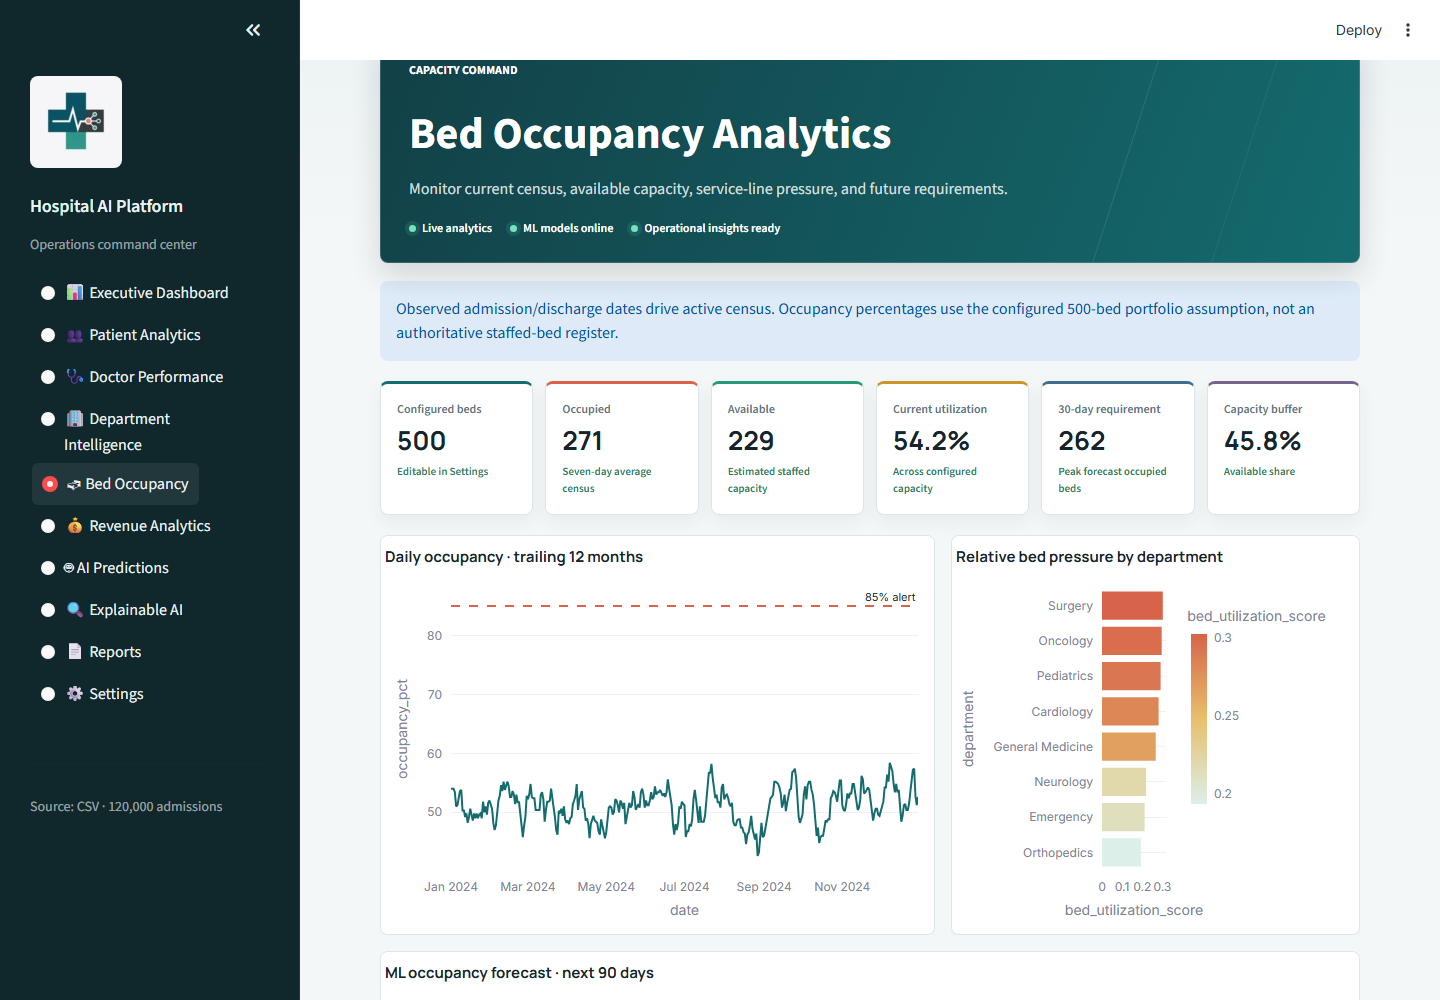
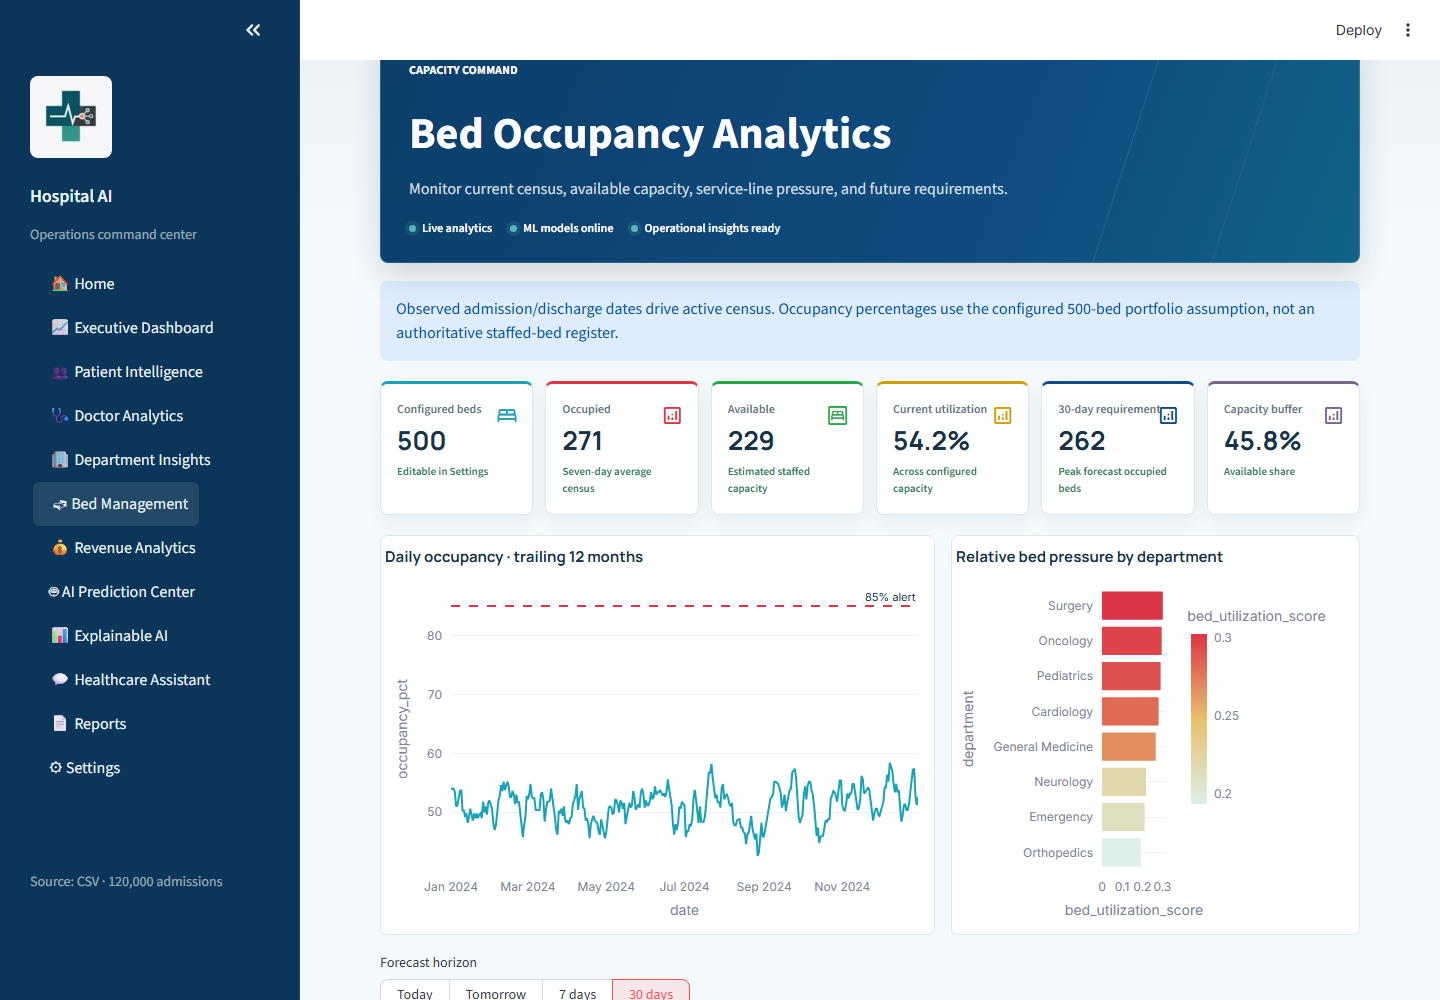
docs: update project README and include additional platform UI screenshots

diff --git a/README.md b/README.md
@@ -1,36 +1,32 @@
-# Hospital Operations Intelligence Platform
+# 🏥 Hospital Operations Intelligence Platform
 
-> End-to-end healthcare analytics for patient flow, readmissions, bed demand, claims performance, and executive decision support.
-
-**AI-Powered Healthcare Analytics and Decision Support System**
+> AI-powered healthcare analytics and decision support for patient flow, readmissions, occupied-bed demand, claims, and executive operations.
 
 [![Python](https://img.shields.io/badge/Python-3.14-3776AB?logo=python&logoColor=white)](https://www.python.org/)
 [![MySQL](https://img.shields.io/badge/MySQL-8.0-4479A1?logo=mysql&logoColor=white)](https://www.mysql.com/)
-[![Power BI](https://img.shields.io/badge/Power%20BI-Ready-F2C811?logo=powerbi&logoColor=black)](https://powerbi.microsoft.com/)
-[![Streamlit](https://img.shields.io/badge/Streamlit-App-FF4B4B?logo=streamlit&logoColor=white)](https://streamlit.io/)
-[![Tests](https://img.shields.io/badge/Tests-8%20Passing-269A78)](#quality-and-governance)
-[![Contracts](https://img.shields.io/badge/Contracts-28%20Passing-146C6E)](#quality-and-governance)
+[![Streamlit](https://img.shields.io/badge/Streamlit-Live_App-FF4B4B?logo=streamlit&logoColor=white)](https://hospital-operations-intelligence-platform-hvnncsycljark8qxv7b8.streamlit.app/)
+[![Tests](https://img.shields.io/badge/Tests-9_Passing-28A745)](#-quality-and-governance)
+[![License](https://img.shields.io/badge/License-MIT-0F4C81)](LICENSE)
 
-## Overview
+## 🚀 Live Demo
 
-This project transforms disconnected admissions and claims data into a governed hospital intelligence platform covering validation, ETL, MySQL modeling, advanced SQL, machine learning, SHAP explainability, executive reporting, and a ten-page Streamlit application.
+[![Launch Hospital Intelligence Platform](https://img.shields.io/badge/Launch_Hospital_Intelligence_Platform-Open_Live_Dashboard-0F4C81?style=for-the-badge&logo=streamlit&logoColor=white)](https://hospital-operations-intelligence-platform-hvnncsycljark8qxv7b8.streamlit.app/)
 
-### At a Glance
+[View source code](https://github.com/suhani-chauhan56/Hospital-Operations-Intelligence-Platform) · [Download executive report](reports/executive_report.pdf)
 
-| Admissions | Patients | Claims | SQL analyses | Notebooks | Quality checks |
+## 📌 Business Problem
+
+Hospital leaders often work with disconnected admissions, billing, claims, and operational data. This makes it difficult to identify readmission burden, capacity constraints, revenue leakage, and high-risk patient cohorts.
+
+This project converts fragmented data into a governed platform combining **ETL, MySQL, advanced SQL, machine learning, SHAP, executive reporting, and interactive dashboards**.
+
+## 🎯 At a Glance
+
+| Admissions | Unique patients | Claims | SQL analyses | Notebooks | Quality checks |
 |---:|---:|---:|---:|---:|---:|
-| **120,000** | **64,873** | **70,000** | **60** | **8** | **28 contracts + 8 tests** |
+| **120,000** | **64,873** | **70,000** | **60** | **8** | **28 contracts + 9 tests** |
 
-## Business Problem
-
-Hospital leaders need reliable answers across fragmented operational systems:
-
-- Which wards have the highest readmission and LOS burden?
-- How much billed value is collected, and where is revenue leaking?
-- What occupied-bed demand should operations prepare for?
-- Which results are observed, derived, simulated, or assumption-based?
-
-## Architecture
+## 🧱 End-to-End Architecture
 
 ```mermaid
 flowchart LR
@@ -45,193 +41,168 @@ flowchart LR
     H --> I[Executive PDF]
 ```
 
-### Data Reliability
+## 💡 Verified Business Insights
 
-Every analytical field is classified so decision-makers can distinguish evidence from demonstration data.
-
-| Classification | Intended use |
+| Finding | Management action |
 |---|---|
-| Observed | Descriptive analysis and executive KPIs |
-| Derived | Reproducible segmentation and feature engineering |
-| Simulated | Workflow demonstration only |
-| Surrogate | Scenario analysis where source keys are unavailable |
-| Assumption | Sensitivity analysis pending operational configuration |
+| ICU readmission is **23.8%**, versus **11.8%** hospital-wide. | Strengthen ICU discharge planning and follow-up. |
+| High-complexity encounters record **21.3%** readmission. | Prioritize this cohort for risk screening. |
+| Collections are **64.5%** of billed value despite **91.4%** claim approval. | Separate approval controls from collection recovery. |
+| ICU average LOS is **12.0 days**, versus **4.5 days** in General wards. | Review transfer and discharge constraints. |
 
-## What the Platform Delivers
+Recommendations, owners, thresholds, and timeframes are available in the [executive action plan](reports/executive_action_plan.csv).
 
-| Capability | Decision value |
-|---|---|
-| Executive Dashboard | Admissions, readmission, LOS, collections, capacity, and management priorities |
-| Patient Analytics | Longitudinal encounter search, labs, medicines, severity, and risk segments |
-| Ward and Bed Intelligence | Observed ward performance and 7/30/90-day occupied-bed forecasts |
-| Claims Analytics | Billed versus paid value, payer collection, status, and leakage |
-| Predictive Analytics | Patient-grouped readmission modeling and chronological bed forecasting |
-| Explainable AI | SHAP global drivers, patient-level factors, and model-artifact lineage |
-| SQL Warehouse | 12 normalized tables, views, procedures, triggers, indexes, CTEs, and windows |
-| Executive Reporting | Four-page PDF with trends, thresholds, owners, and timeframes |
-
-## Verified Business Insights
-
-| Finding | Recommended action |
-|---|---|
-| ICU readmission is **23.8%** versus **11.8%** hospital-wide. | Review ICU discharge planning and follow-up. |
-| High-complexity encounters record **21.3%** readmission. | Use the cohort for targeted screening. |
-| Collections are **64.5%** of billed value despite **91.4%** claim approval. | Separate approval and collection controls. |
-| ICU average LOS is **12.0 days** versus **4.5 days** in General wards. | Review transfer and discharge constraints. |
-
-See the [executive decision pack](reports/executive_report.pdf) and [action plan](reports/executive_action_plan.csv).
-
-## MySQL Analytics Warehouse
-
-The warehouse contains **12 normalized tables** loaded in foreign-key order:
-
-```text
-patients        doctors         departments
-admissions      diagnoses       procedures
-medicines       labs            insurance
-billing         claims          appointments
-```
-
-SQL implementation includes:
-
-- Primary and foreign keys with validation constraints
-- Analytical indexes for patient, date, department, and claim access
-- Reusable KPI views and monthly reporting procedures
-- Billing controls implemented through triggers
-- **60 analytical queries** using CTEs and window functions
-- A deployment verifier that records table counts and database readiness
-
-See [`sql/schema.sql`](sql/schema.sql), [`sql/analytics.sql`](sql/analytics.sql), and [`sql/views.sql`](sql/views.sql).
-
-## Dashboard Preview
+## 🖥 Application Experience
 
 ![Hospital intelligence platform home](reports/screenshots/home-redesign-desktop.png)
 
-<table>
-  <tr>
-    <td width="50%"><strong>Executive Dashboard</strong><br><img src="reports/screenshots/executive-dashboard.png" alt="Executive dashboard"></td>
-    <td width="50%"><strong>Bed Occupancy</strong><br><img src="reports/screenshots/bed-occupancy.png" alt="Bed occupancy"></td>
-  </tr>
-</table>
+| Executive Dashboard | AI Prediction Center |
+|---|---|
+| ![Executive dashboard](reports/screenshots/executive-dashboard.png) | ![AI predictions](reports/screenshots/ai-predictions.png) |
 
 <details>
-<summary><strong>View more application screens</strong></summary>
+<summary><strong>View additional application screens</strong></summary>
 <br>
 
-| Revenue Analytics | AI Prediction Center |
+| Patient Intelligence | Bed Management |
 |---|---|
-| ![Revenue analytics](reports/screenshots/revenue-analytics.png) | ![AI predictions](reports/screenshots/ai-predictions.png) |
+| ![Patient intelligence](reports/screenshots/patient-analytics.png) | ![Bed management](reports/screenshots/bed-occupancy.png) |
 
-| Explainable AI | Reports and Assistant |
+| Revenue Analytics | Explainable AI |
 |---|---|
-| ![Explainable AI](reports/screenshots/explainable-ai.png) | ![Reports](reports/screenshots/reports-assistant.png) |
+| ![Revenue analytics](reports/screenshots/revenue-analytics.png) | ![Explainable AI](reports/screenshots/explainable-ai.png) |
+
+| Healthcare Assistant | Report Center |
+|---|---|
+| ![Healthcare assistant](reports/screenshots/assistant-redesign.png) | ![Report center](reports/screenshots/reports-assistant.png) |
 
 </details>
 
-### Streamlit Application
-
-The ten-page application supports:
-
-| Area | Workflow |
-|---|---|
-| Executive | KPI monitoring, trends, thresholds, and accountable actions |
-| Patients | Encounter search, timeline, labs, medicines, and risk profile |
-| Doctors and departments | Workload, utilization, LOS, outcomes, and ranking |
-| Beds and finance | Occupancy forecasts, claims, collections, and leakage |
-| AI predictions | Readmission, occupied-bed, waiting-time, and revenue scenarios |
-| Explainability | Global SHAP importance and patient-level risk factors |
-| Reports | Executive PDF, governed downloads, and analytics assistant |
-
-## Model Evaluation
+## 🤖 Machine Learning
 
 | Tier | Task | Selected model | Held-out result |
 |---|---|---|---|
 | Core | 30-day readmission | Logistic Regression | ROC-AUC `0.736`, recall `0.673` |
-| Core | Occupied-bed forecast | XGBoost | MAE `6.38 beds`, R2 `0.689` |
+| Core | Occupied-bed forecast | XGBoost | MAE `6.38 beds`, R² `0.689` |
 | Sandbox | Waiting-time workflow | Random Forest | RMSE `0.074 minutes` |
-| Sandbox | Revenue scenario | CatBoost | RMSE `$2,890.79`, R2 `0.144` |
+| Sandbox | Revenue scenario | CatBoost | RMSE `$2,890.79`, R² `0.144` |
 
-Core models use observed targets. Waiting time is simulated; admission-level revenue uses a surrogate claim link. Sandbox results demonstrate engineering workflow, not validated business performance.
+Core models use observed targets. Waiting time is simulated, while admission-level revenue uses a surrogate claim link. Sandbox results demonstrate engineering workflow and are not presented as validated operational performance.
 
-## Technology Stack
+## 🗃 MySQL and SQL Analytics
 
-| Data and SQL | ML and explainability | Delivery and quality |
-|---|---|---|
-| Excel, Pandas, NumPy, MySQL, SQLAlchemy | Scikit-learn, XGBoost, LightGBM, CatBoost, SHAP | Plotly, Streamlit, Power BI assets, Pytest |
-
-## Quick Start
-
-Run the production pipeline before launching the dashboard:
-
-```powershell
-cd "C:\Users\HP\Desktop\Hospital OP Inteligent sys"
-python -m venv .venv
-.venv\Scripts\Activate.ps1
-python -m pip install -r requirements.txt
-.\run_pipeline.ps1 -LaunchDashboard
-```
-
-Open `http://localhost:8501`.
-
-### Execution Order
+The warehouse contains **12 normalized tables**:
 
 ```text
-Raw CSV validation
--> Cleaning and feature engineering
--> Model training and registration
--> SHAP explanation generation
--> Executive report generation
--> Contract validation
--> Streamlit application
+patients      doctors       departments    admissions
+diagnoses     procedures    medicines      labs
+insurance     billing       claims         appointments
 ```
 
-For MySQL deployment, notebook order, testing, Power BI, and troubleshooting, follow the **[complete execution runbook](docs/RUNBOOK.md)**.
+Implementation includes **primary and foreign keys, constraints, indexes, KPI views, stored procedures, billing triggers, CTEs, window functions, 60 analytical queries, an FK-ordered loader, and a deployment verifier**.
 
-## Repository Structure
+See [`schema.sql`](sql/schema.sql), [`views.sql`](sql/views.sql), and [`analytics.sql`](sql/analytics.sql).
+
+## 🧰 Technology Stack
+
+| Layer | Tools |
+|---|---|
+| Validation and processing | Excel, Python, Pandas, NumPy |
+| Database and analytics | MySQL, SQLAlchemy, advanced SQL |
+| Machine learning | Scikit-learn, XGBoost, LightGBM, CatBoost |
+| Explainability | SHAP |
+| Visualization | Plotly, Streamlit, Power BI assets |
+| Quality | Pytest, data contracts, SHA256 model registry |
+
+## 📁 Repository Structure
 
 ```text
-config/       Central assumptions and thresholds
-datasets/     Raw, interim, and processed data layers
+config/       Operational assumptions and thresholds
+datasets/     Raw, interim, processed, and deployment data
 docs/         Architecture, governance, recruiter guide, runbook
-models/       Registered pipelines and model manifest
+models/       Registered pipelines and artifact manifest
 notebooks/    Cleaning through SHAP experimentation
 powerbi/      DAX measures, theme, and implementation guide
 reports/      Metrics, forecasts, screenshots, action plan, PDFs
 sql/          Schema, views, procedures, and 60 analyses
-src/          Production ETL, ML, reports, and validation
-streamlit/    Interactive hospital operations application
-tests/        Data, model, assistant, and UI tests
+src/          Production ETL, ML, reporting, and validation
+streamlit/    Interactive application
+tests/        Data, model, assistant, report, and UI tests
 ```
 
-## Quality and Governance
+## ⚙ Run Locally
 
-- Patient-grouped splits record **zero train/test patient overlap**
-- Model and dataset SHA256 hashes are stored in [`models/manifest.json`](models/manifest.json)
-- SHAP reports are tied to exact registered model hashes
-- Primary keys, foreign keys, dates, provenance, and actions are validated
-- Observed, derived, simulated, surrogate, and assumed fields are explicitly labelled
+### 1. Clone and enter the project
+
+```powershell
+git clone https://github.com/suhani-chauhan56/Hospital-Operations-Intelligence-Platform.git
+cd Hospital-Operations-Intelligence-Platform
+```
+
+### 2. Create the environment
+
+```powershell
+python -m venv .venv
+.venv\Scripts\Activate.ps1
+python -m pip install -r requirements.txt
+```
+
+### 3. Run the complete pipeline
+
+```powershell
+.\run_pipeline.ps1
+```
+
+Execution flow:
+
+```text
+Data validation -> ETL -> Feature engineering -> Model training
+-> SHAP -> Executive report -> Contract validation -> Deployment bundle
+```
+
+### 4. Launch Streamlit
+
+```powershell
+python -m streamlit run streamlit\app.py
+```
+
+Open `http://localhost:8501`.
+
+For MySQL deployment, notebook order, Power BI, and troubleshooting, follow the [complete execution runbook](docs/RUNBOOK.md).
+
+## ✅ Quality and Governance
+
+- Patient-grouped model splits have **zero train/test patient overlap**
+- Model and dataset hashes are registered in [`models/manifest.json`](models/manifest.json)
+- SHAP reports are tied to the registered model artifacts
+- Keys, foreign keys, dates, provenance, reports, and models are contract-tested
+- Fields are labelled as **observed, derived, simulated, surrogate, or assumed**
 
 ```powershell
 python src\validate_project.py
 python -m pytest -q
 ```
 
-## Limitations
+Expected result: **28 project contracts and 9 tests passing**.
 
-- Portfolio analytics system, not a medical device
+## ⚠ Responsible Use and Limitations
+
+- Portfolio analytics platform, not a medical device
 - Doctor, department, demographic, medicine, and appointment dimensions are derived
 - Waiting time is simulated because queue timestamps were not supplied
-- Admission-level revenue is surrogate-linked because source files share no encounter key
+- Revenue attribution is surrogate-linked because the source files lack a shared encounter key
 - Occupancy percentages use a configurable 500-bed assumption
-- Power BI assets are included; a distributable `.pbix` is not included
+- Clinical, staffing, and financial decisions require local validation and human review
 
-## Documentation
+## 📚 Documentation
 
-[Execution Runbook](docs/RUNBOOK.md) | [Architecture](docs/ARCHITECTURE.md) | [Data Governance](docs/DATA_GOVERNANCE.md) | [Recruiter Guide](docs/RECRUITER_GUIDE.md) | [Power BI Guide](powerbi/README.md)
+[Execution Runbook](docs/RUNBOOK.md) · [Architecture](docs/ARCHITECTURE.md) · [Data Governance](docs/DATA_GOVERNANCE.md) · [Recruiter Guide](docs/RECRUITER_GUIDE.md) · [Power BI Guide](powerbi/README.md)
 
-## Author
+## 🙋♀ Author
 
 **Suhani Chauhan**  
 B.Tech CSE (Data Science) | Aspiring Data Analyst / ML Engineer
 
-[GitHub](https://github.com/suhani-chauhan56) | [LinkedIn](https://www.linkedin.com/in/suhani-chauhan-39055832a)
+[LinkedIn](https://www.linkedin.com/in/suhani-chauhan-39055832a) · [GitHub](https://github.com/suhani-chauhan56)
+
+⭐ If this project is useful, consider starring the repository.
